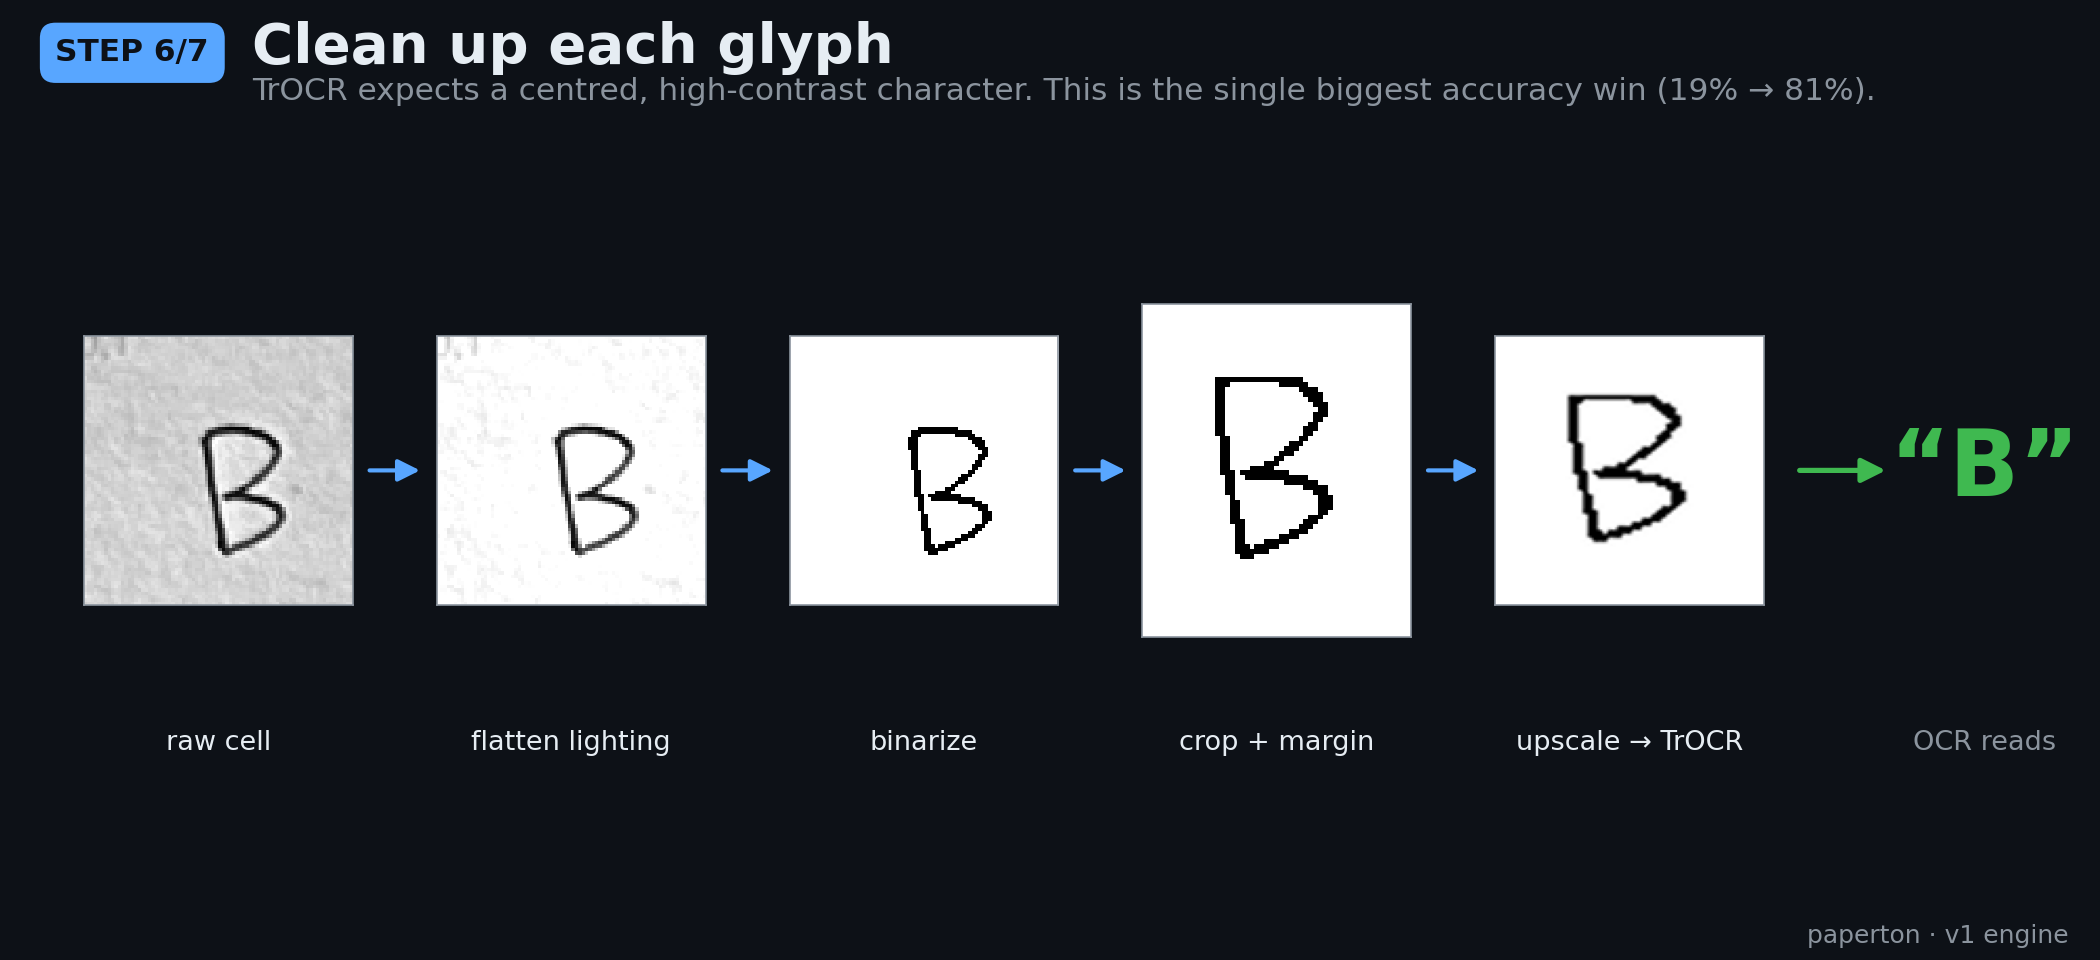
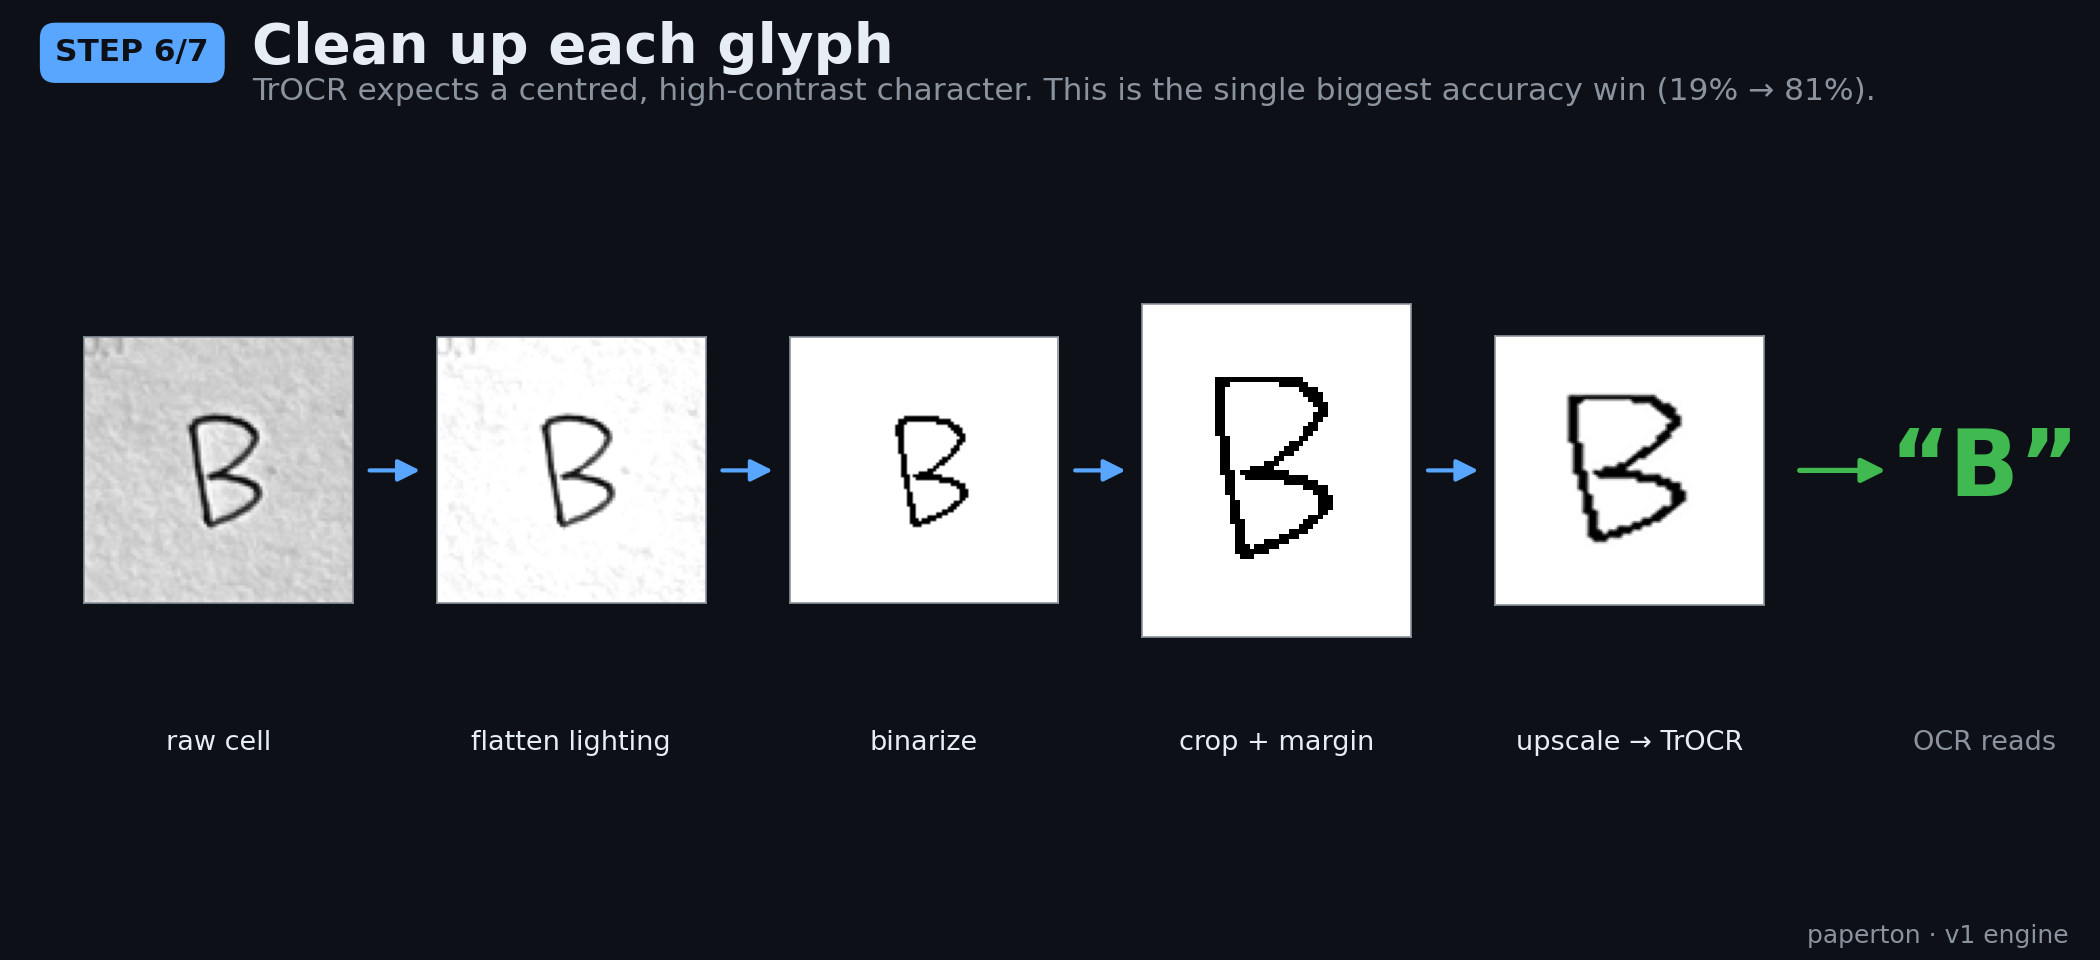
v1 - fail

diff --git a/v1/extract_grid.py b/v1/extract_grid.py
@@ -55,12 +55,41 @@ def rectify(photo_path):
     return rows, cols, flat
 
 
-def slice_cells(flat, rows, cols, inset):
+def _snap(profile, expected, win):
+    """Move each expected boundary to the darkest column/row within +-win, but only
+    if there's a real line there (clear peak); otherwise keep the even position."""
+    med = np.median(profile)
+    mad = np.median(np.abs(profile - med)) + 1e-6
+    out = []
+    for e in expected:
+        a, b = max(0, e - win), min(len(profile) - 1, e + win)
+        j = a + int(np.argmax(profile[a : b + 1]))
+        out.append(j if profile[j] - med > 4 * mad else e)
+    for i in range(1, len(out)):  # keep strictly increasing
+        out[i] = max(out[i], out[i - 1] + 1)
+    return out
+
+
+def snap_grid(flat, xs, ys):
+    """Snap even cell boundaries onto the actual printed grid lines, correcting the
+    residual drift left by paper curl / lens distortion after the flat-plane warp."""
+    g = cv2.cvtColor(flat, cv2.COLOR_BGR2GRAY)
+    bg = cv2.GaussianBlur(g, (0, 0), 25)
+    dark = 255.0 - cv2.divide(g, bg, scale=255)  # ink, with lighting flattened
+    win = max(4, int(0.18 * gl.CELL))
+    return _snap(dark.sum(0), xs, win), _snap(dark.sum(1), ys, win)
+
+
+def slice_cells(flat, rows, cols, inset, snap=True):
     """Return a list of cell crops (row-major), with the inset trimmed off."""
     C = gl.canonical(rows, cols)
     xs, ys = C["xs"], C["ys"]
+    if snap:
+        xs, ys = snap_grid(flat, xs, ys)
     if inset < 0:
-        inset = max(1, int(0.10 * gl.CELL))
+        # just enough to clear the printed grid line; more than this clips ink that
+        # overflows toward the cell edges (handwriting is often larger than the box)
+        inset = max(1, int(0.04 * gl.CELL))
     inset = max(0, min(inset, (gl.CELL - 2) // 2))
     cells = []
     for r in range(rows):
@@ -81,11 +110,11 @@ def print_grid(text, rows, cols):
         print(f"  {line}")
 
 
-def extract(photo_path, csv_path, inset, save_cells, debug, batch):
+def extract(photo_path, csv_path, inset, save_cells, debug, batch, snap, model_name):
     rows, cols, flat = rectify(photo_path)
     print(f"detected: rows={rows} cols={cols}")
 
-    cells, inset = slice_cells(flat, rows, cols, inset)
+    cells, inset = slice_cells(flat, rows, cols, inset, snap)
 
     if save_cells:
         os.makedirs(save_cells, exist_ok=True)
@@ -102,7 +131,7 @@ def extract(photo_path, csv_path, inset, save_cells, debug, batch):
     print(
         f"OCR: {n_filled}/{len(cells)} non-blank cells (TrOCR, this may take a moment)..."
     )
-    text = ocr.ocr_cells(to_read, batch_size=batch)
+    text = ocr.ocr_cells(to_read, batch_size=batch, model_name=model_name)
 
     print_grid(text, rows, cols)
 
@@ -123,10 +152,18 @@ def main():
     p.add_argument("--save-cells", default=None, help="also dump cell PNGs to this dir")
     p.add_argument("--batch", type=int, default=16, help="OCR batch size")
     p.add_argument(
+        "--model", choices=list(ocr.MODELS), default=ocr.DEFAULT_MODEL,
+        help="TrOCR model: large (words/phrases) or base (single chars, faster)",
+    )
+    p.add_argument(
+        "--no-snap", action="store_true",
+        help="skip snapping cell boundaries onto the printed grid lines",
+    )
+    p.add_argument(
         "--debug", action="store_true", help="with --save-cells, also save rectified"
     )
     a = p.parse_args()
-    extract(a.photo, a.csv, a.inset, a.save_cells, a.debug, a.batch)
+    extract(a.photo, a.csv, a.inset, a.save_cells, a.debug, a.batch, not a.no_snap, a.model)
 
 
 if __name__ == "__main__":

diff --git a/v1/ocr.py b/v1/ocr.py
@@ -19,16 +19,25 @@ import cv2
 import numpy as np
 from functools import lru_cache
 
-MODEL = "microsoft/trocr-base-handwritten"
+# "large" handles multi-letter words/phrases best (it's a line recogniser) and is
+# the right default for open handwriting like "vinyl kick". "base" is faster and a
+# bit better on ISOLATED single characters. Both share TrOCR's quirk of nudging
+# block capitals toward common words (HAT -> that); large just does it less.
+MODELS = {
+    "large": "microsoft/trocr-large-handwritten",
+    "base": "microsoft/trocr-base-handwritten",
+}
+DEFAULT_MODEL = "large"
 
 
-@lru_cache(maxsize=1)
-def _model():
+@lru_cache(maxsize=2)
+def _model(name=DEFAULT_MODEL):
     import torch
     from transformers import TrOCRProcessor, VisionEncoderDecoderModel
 
-    proc = TrOCRProcessor.from_pretrained(MODEL)
-    model = VisionEncoderDecoderModel.from_pretrained(MODEL)
+    repo = MODELS.get(name, name)
+    proc = TrOCRProcessor.from_pretrained(repo)
+    model = VisionEncoderDecoderModel.from_pretrained(repo)
     if torch.backends.mps.is_available():
         dev = "mps"
     elif torch.cuda.is_available():
@@ -84,18 +93,22 @@ def prep(cell_bgr):
 
 
 def clean(s):
-    """Tidy TrOCR's single-glyph output: longest token, alphanumerics only.
+    """Tidy TrOCR output while preserving multi-word cells ("vinyl kick").
 
-    TrOCR tends to double a lone character ("3 3", "10 0") or tack on punctuation
-    ("F."). The longest whitespace token recovers the intended glyph in both cases.
+    Strip stray punctuation from each token and collapse consecutive duplicates,
+    which is how TrOCR doubles a lone glyph ("3 3" -> "3", "HAT HAT" -> "HAT"),
+    without dropping real extra words.
     """
-    toks = [t for t in re.split(r"\s+", s.strip()) if t]
-    if not toks:
-        return ""
-    return re.sub(r"[^A-Za-z0-9]", "", max(toks, key=len))
+    toks = [re.sub(r"[^A-Za-z0-9]", "", t) for t in s.split()]
+    toks = [t for t in toks if t]
+    out = []
+    for t in toks:
+        if not out or out[-1].lower() != t.lower():
+            out.append(t)
+    return " ".join(out)
 
 
-def ocr_cells(cells_bgr, batch_size=16):
+def ocr_cells(cells_bgr, batch_size=16, model_name=DEFAULT_MODEL):
     """OCR a list of BGR cell crops. Entries that are None (blank) yield ''.
 
     Returns a list[str] aligned with the input.
@@ -103,7 +116,7 @@ def ocr_cells(cells_bgr, batch_size=16):
     import torch
     from PIL import Image
 
-    proc, model, dev = _model()
+    proc, model, dev = _model(model_name)
     results = [""] * len(cells_bgr)
     imgs, owners = [], []
     for i, cell in enumerate(cells_bgr):
@@ -119,7 +132,7 @@ def ocr_cells(cells_bgr, batch_size=16):
             images=imgs[b : b + batch_size], return_tensors="pt"
         ).pixel_values.to(dev)
         with torch.no_grad():
-            out = model.generate(pix, max_new_tokens=8)
+            out = model.generate(pix, max_new_tokens=16)  # room for short phrases
         for i, t in zip(
             owners[b : b + batch_size], proc.batch_decode(out, skip_special_tokens=True)
         ):

diff --git a/v1/make_grid.py b/v1/make_grid.py
@@ -17,7 +17,7 @@ import cv2
 import gridlib as gl
 
 
-def build(rows, cols, over, label):
+def build(rows, cols, over):
     L = gl.print_layout(rows, cols, **over)
     img = np.full((L["H"], L["W"]), 255, np.uint8)
     ids = gl.encode_ids(rows, cols)
@@ -33,20 +33,6 @@ def build(rows, cols, over, label):
     for y in ys:
         cv2.line(img, (xs[0], y), (xs[-1], y), 0, L["line_px"])
 
-    if label:
-        fs = max(0.25, min(0.6, L["cell_w"] / 130))
-        for r in range(rows):
-            for c in range(cols):
-                cv2.putText(
-                    img,
-                    f"{r},{c}",
-                    (xs[c] + 3, ys[r] + 16),
-                    cv2.FONT_HERSHEY_SIMPLEX,
-                    fs,
-                    170,
-                    1,
-                    cv2.LINE_AA,
-                )
     return img, L, ids
 
 
@@ -57,12 +43,11 @@ def main():
     p.add_argument("--dpi", type=int, default=gl.PRINT["dpi"])
     p.add_argument("--margin", type=float, default=gl.PRINT["margin_in"])
     p.add_argument("--marker", type=float, default=gl.PRINT["marker_in"])
-    p.add_argument("--no-label", action="store_true")
     p.add_argument("--out", default="grid")
     a = p.parse_args()
 
     over = dict(dpi=a.dpi, margin_in=a.margin, marker_in=a.marker)
-    img, L, ids = build(a.rows, a.cols, over, not a.no_label)
+    img, L, ids = build(a.rows, a.cols, over)
     cv2.imwrite(f"{a.out}.png", img)
 
     cwp, chp = L["xs"][1] - L["xs"][0], L["ys"][1] - L["ys"][0]

diff --git a/v1/explainer.py b/v1/explainer.py
@@ -22,7 +22,7 @@ import gridlib as gl
 import ocr
 from extract_grid import rectify, slice_cells
 
-PHOTO = "IMG_8466.JPG"
+PHOTO = "input/IMG_8466.JPG"
 OUT = "explainer_out"
 
 # palette (GitHub-dark, reads well on a YouTube timeline)